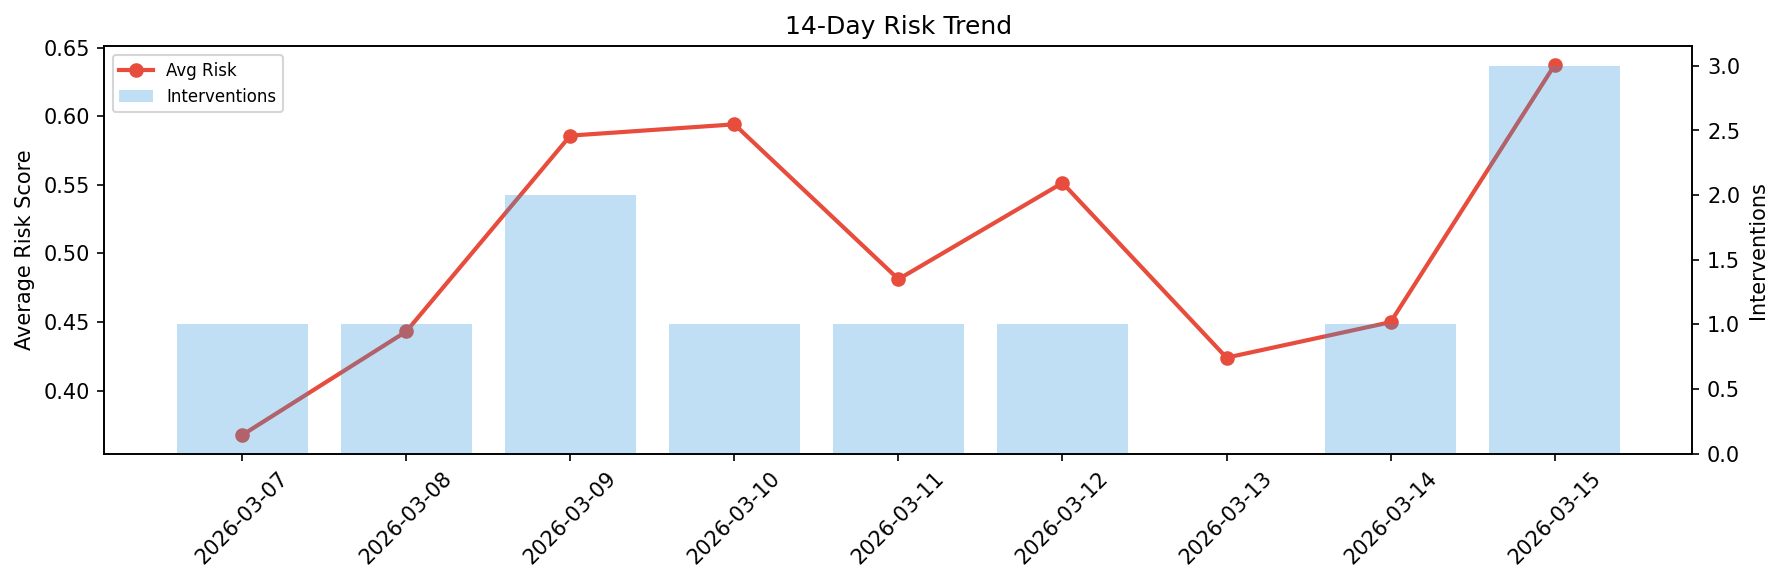
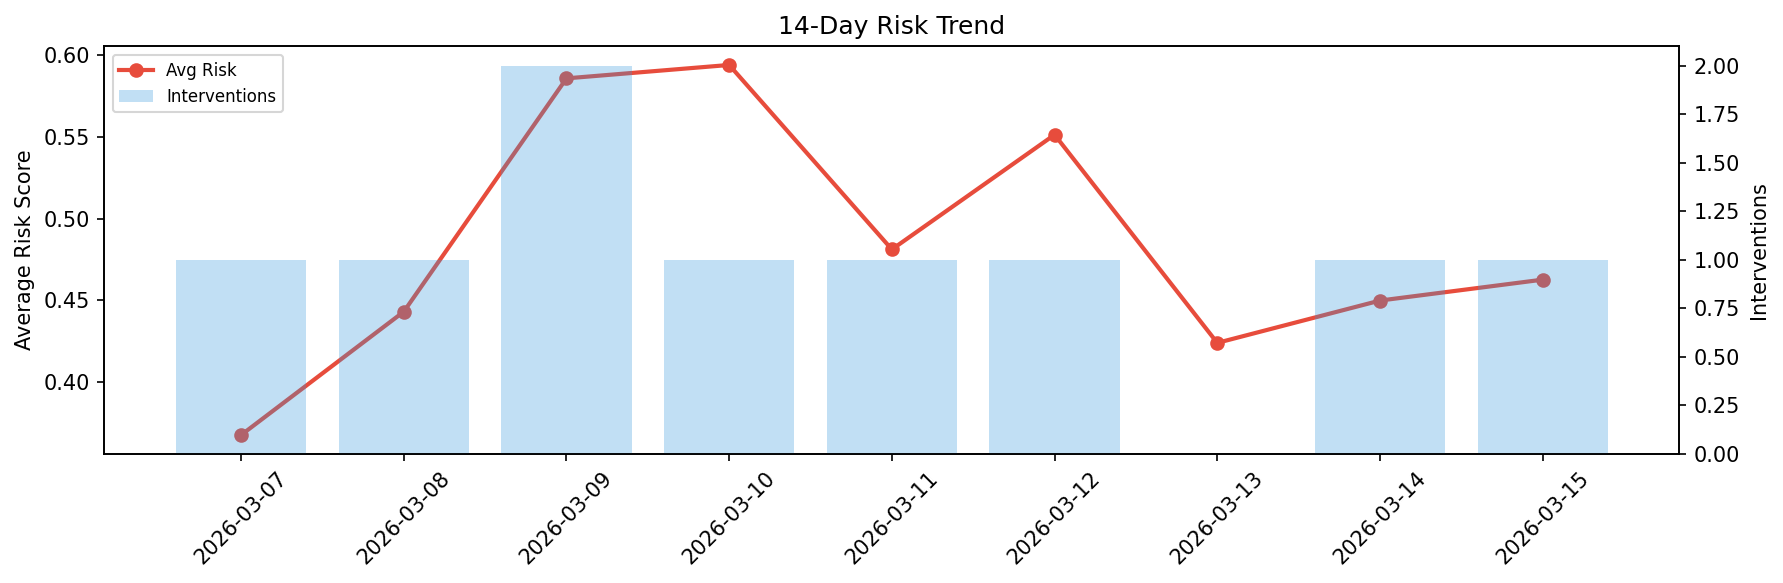
agent-improvement: daily cycle 2026-03-15T20:45

diff --git a/logs/2026-03-15.md b/logs/2026-03-15.md
@@ -1,6 +1,6 @@
 # Agent Improvement Report — 2026-03-15
 
-**Cycle ID:** `8aff3273` | **Avg Risk:** 0.6374 | **Interventions:** 3/4
+**Cycle ID:** `5df46976` | **Avg Risk:** 0.4627 | **Interventions:** 1/4
 
 ![Dashboard](2026-03-15_dashboard.png)
 
@@ -10,18 +10,18 @@
 
 | Domain | Risk Score | Decision | Alerts |
 |--------|-----------|----------|--------|
-| code_review | 0.6327 | intervene | duplication |
-| incident_response | 0.5491 | monitor | blast_radius |
-| data_pipeline | 0.669 | intervene | freshness |
-| deployment | 0.6988 | intervene | canary_error |
+| code_review | 0.5611 | monitor | coverage |
+| incident_response | 0.4452 | monitor | blast_radius |
+| data_pipeline | 0.2173 | monitor | none |
+| deployment | 0.6274 | intervene | none |
 
 ## Delta vs Yesterday
 
 | Domain | Today | Yesterday | Change |
 |--------|-------|-----------|--------|
-| code_review | 0.6327 | 0.5117 | 📈 23.6% |
-| incident_response | 0.5491 | 0.2326 | 📈 136.1% |
-| data_pipeline | 0.669 | 0.6033 | 📈 10.9% |
-| deployment | 0.6988 | 0.4519 | 📈 54.6% |
+| code_review | 0.5611 | 0.5117 | 📈 9.7% |
+| incident_response | 0.4452 | 0.2326 | 📈 91.4% |
+| data_pipeline | 0.2173 | 0.6033 | 📉 -64.0% |
+| deployment | 0.6274 | 0.4519 | 📈 38.8% |
 
 **Refinement:** `{'adjustment': 'tighten_thresholds', 'trend': 'degrading', 'window': 4}`
